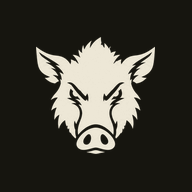
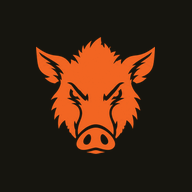
Add files via upload

Changed region(s): [[0.1875, 0.1875, 0.8125, 0.8125]]

diff --git a/app/components/MenuLateral.vue b/app/components/MenuLateral.vue
@@ -9,7 +9,7 @@ import { useMarca } from '~/composables/useMarca'
  */
 import { useAuth } from '~/stores/auth'
 import { useCreditos } from '~/stores/creditos'
-import { NAV_MANEJADOR, NAV_LOJISTA, TOP_KEYS, MODULO_LIMITE } from '~/composables/useNavegacao'
+import { NAV_MANEJADOR, NAV_LOJISTA, TOP_KEYS, CONTA_KEYS, MODULO_LIMITE } from '~/composables/useNavegacao'
 import { NAV_SVG } from '~/composables/useIcones'
 
 const aberto = defineModel<boolean>('aberto', { default: false })
@@ -18,13 +18,12 @@ const auth = useAuth()
 const cred = useCreditos()
 const route = useRoute()
 const router = useRouter()
-const { server } = useServer()
 const cfg = useRuntimeConfig()
 const marca = useMarca()
 
 const itens = computed(() => {
   const base = auth.tipo === 'empresa' ? NAV_LOJISTA : NAV_MANEJADOR
-  const lista = base.filter((n) => !TOP_KEYS.includes(n.chave))
+  const lista = base.filter((n) => !TOP_KEYS.includes(n.chave) && !CONTA_KEYS.includes(n.chave))
   return auth.admin
     ? lista.concat([{ chave: 'admin', rota: '/admin', label: 'Administração', icon: 'admin' }])
     : lista
@@ -39,17 +38,6 @@ function bloqueado(chave: string) {
 function ir(rota: string) {
   aberto.value = false
   router.push(rota)
-}
-
-async function sair() {
-  aberto.value = false
-  try {
-    await server('apiLogout')
-  } catch { /* a sessão local morre de qualquer jeito */ }
-  auth.encerrar()
-  auth.reconhecerExpiracao()
-  cred.limpar()
-  await router.push('/')
 }
 </script>
 
@@ -89,8 +77,9 @@ async function sair() {
       </button>
     </nav>
 
+    <!-- ⚠ Sem "Sair" e sem "Suporte" aqui: os dois moram no menu da conta,
+         ao lado do sino. O rodapé fica só com o carimbo de versão. -->
     <div class="sb-pe">
-      <button class="btn sec sair" @click="sair">Sair</button>
       <div class="sb-ver">{{ cfg.public.appVer }}</div>
     </div>
   </aside>
@@ -143,7 +132,6 @@ async function sair() {
 .sb-label { flex: 1; }
 .sb-lock { font-size: 12px; }
 
-.sb-pe { padding: 12px 14px 18px; border-top: 1px solid var(--linha); }
-.sair { margin: 0; }
-.sb-ver { text-align: center; font-size: 10.5px; color: var(--osso-2); margin-top: 10px; }
+.sb-pe { padding: 10px 14px 16px; border-top: 1px solid var(--linha); }
+.sb-ver { text-align: center; font-size: 10.5px; color: var(--osso-2); }
 </style>

diff --git a/app/composables/useNavegacao.ts b/app/composables/useNavegacao.ts
@@ -21,7 +21,10 @@ export interface ItemNav {
  * não se caça, sem propriedade regular não há ceva nem rota. Espalhar tudo no
  * menu escondia essa ordem e enchia a lateral com onze itens.
  *
- * Os quatro do fim (`TOP_KEYS`) moram na barra de atalhos, não na lateral.
+ * Os quatro do fim (`TOP_KEYS`) moram na barra de atalhos, não na lateral, e
+ * o `suporte` (`CONTA_KEYS`) mora no menu da conta, ao lado do sino. Os itens
+ * continuam declarados aqui de propósito: é a lista única de rotas do menu, e
+ * apagá-los daqui esconderia que a rota existe.
  */
 export const NAV_MANEJADOR: ItemNav[] = [
   { chave: 'manejoHub', rota: '/cacar', label: 'CAÇAR', icon: 'abate', destaque: true, pronta: true },
@@ -51,6 +54,13 @@ export const NAV_LOJISTA: ItemNav[] = [
 
 /** Estes moram na barra de atalhos, acima do conteúdo. */
 export const TOP_KEYS = ['trofeus', 'ranking', 'promocoes', 'mapaGeral']
+
+/**
+ * Estes moram no menu da conta (`MenuConta`), ao lado do sino, e por isso são
+ * peneirados da lateral. Duas portas para a mesma tela, uma acima da outra,
+ * só ocupam espaço — o mesmo motivo que juntou perfil, planos e compras lá.
+ */
+export const CONTA_KEYS = ['suporte']
 
 /** Qual limite do plano controla cada item. */
 export const MODULO_LIMITE: Record<string, string> = {

diff --git a/app/composables/useMarca.ts b/app/composables/useMarca.ts
@@ -12,8 +12,9 @@
  * quando alguém esquece um. `meateater` fica no mapa para a próxima.
  *
  * As imagens ficam em `public/marca/`, já sem fundo. ⚠ Elas são desenhadas
- * para o TEMA CARVÃO: o traço é osso (`#EDE7D6`), não preto. Arte preta sobre
- * o fundo escuro do app desaparece sem dar erro nenhum.
+ * para o TEMA CARVÃO: o javali é laranja e as letras de contraste são osso
+ * (`#EDE7D6`) — nada de preto. Arte preta sobre o fundo escuro do app
+ * desaparece sem dar erro nenhum.
  */
 export interface Marca {
   chave: string

diff --git a/nuxt.config.ts b/nuxt.config.ts
@@ -90,7 +90,7 @@ export default defineNuxtConfig({
        * Ver app/composables/useMarca.ts.
        */
       marca: process.env.NUXT_PUBLIC_MARCA || 'javastreak',
-      appVer: 'vJS.070826.2306',
+      appVer: 'vJS.070826.2317',
       ambiente: 'homologacao'
     }
   },
